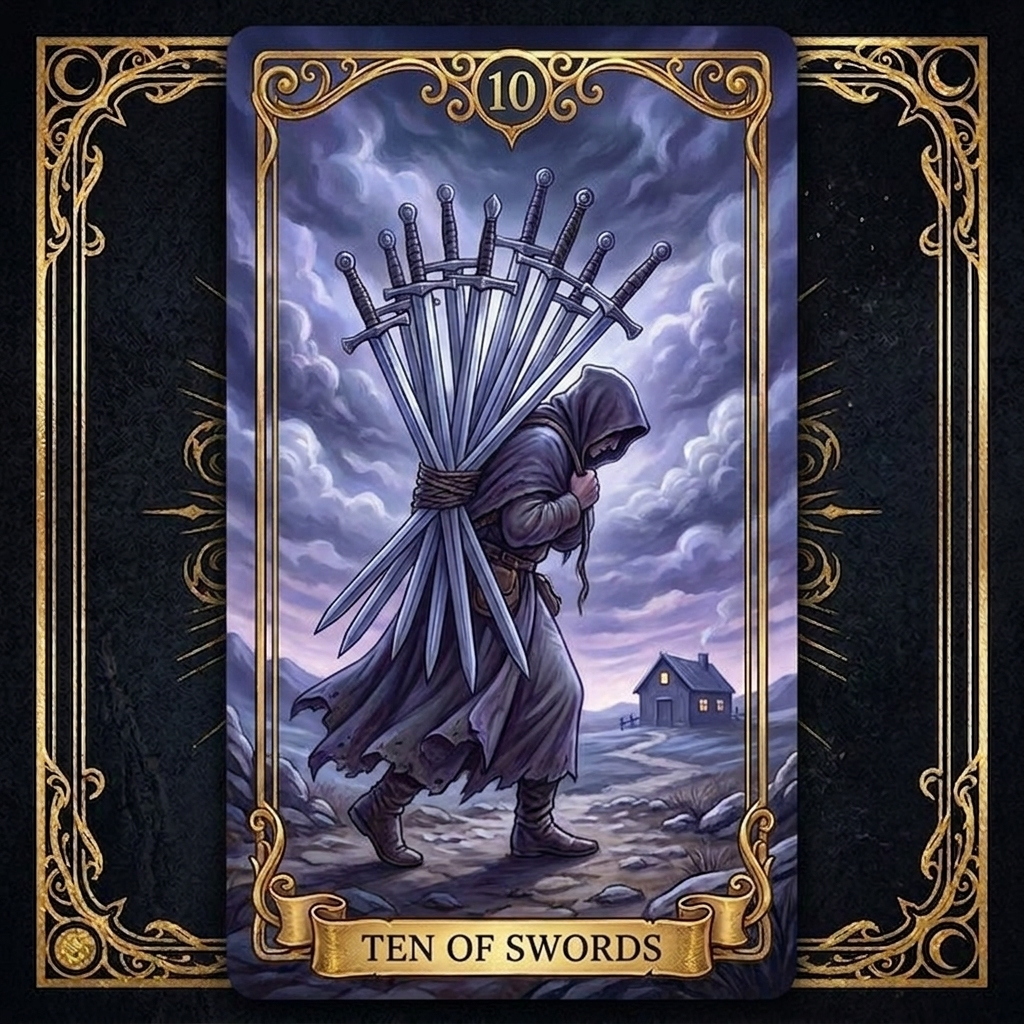
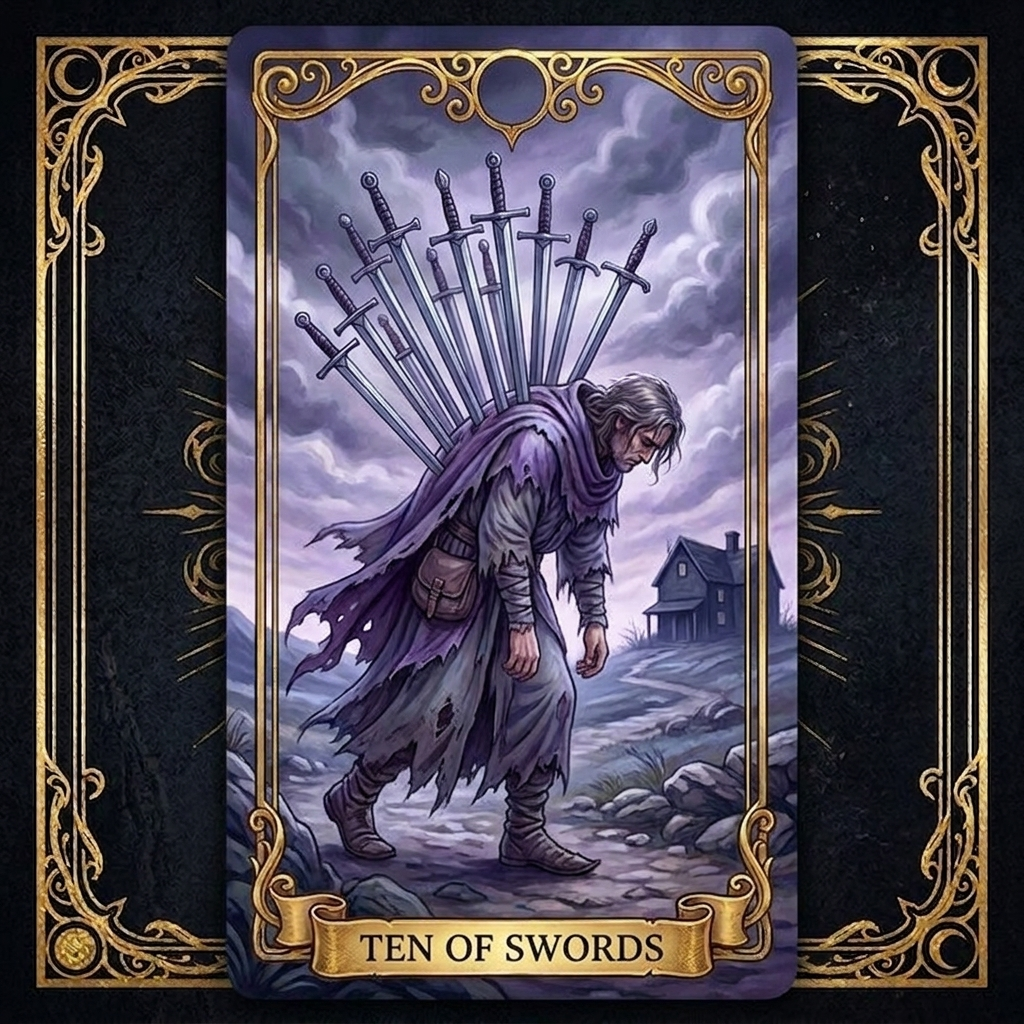
fix(tarot): 생성한 이미지의 크기를 검증하고 어긋나면 다시 뽑는다
`gemini-3-pro-image` 는 정사각형을 요구해도 **가끔 세로(848x1264)를 돌려줍니다.**
프롬프트에 비율을 적어도 그렇습니다.

실제로 78장 중 3장(PE07-7, SW10-10, WA12-N)이 그 상태로 들어와 있었습니다.
갤러리에서 카드 하나만 눌려 보이는데, 파일은 멀쩡한 JPEG 라 아무 경고도
나지 않습니다. 화면을 한 장 한 장 뜯어보지 않으면 모릅니다.

받은 바이트에서 JPEG SOF 마커를 읽어 크기를 재고, `1024x1024` 가 아니면
그 시도를 실패로 처리합니다. 기존 재시도 경로(3회, 점증 대기)를 그대로 타므로
자동으로 다시 뽑힙니다. JPEG 매직바이트도 함께 확인합니다.

프롬프트에도 `Square 1:1 image, 1024x1024.` 를 덧붙였습니다. 그것만으로는
막지 못한다는 걸 확인했기 때문에 검증을 함께 둡니다.

확인: SW10-10 을 다시 뽑아 1024x1024 로 들어오는 것까지 봤습니다.
현재 78장 전부 1024x1024.

Claude-Session: https://claude.ai/code/session_01KKq455fG5EhybQVdLvc313

diff --git a/src/app/billing/page.tsx b/src/app/billing/page.tsx
@@ -10,7 +10,10 @@ export default function BillingPage() {
           <span className="text-sm font-bold">뒤로</span>
         </Link>
 
-        <div className="bg-surface border border-border-color rounded-5xl p-4 sm:p-8 sm:p-16 shadow-2xl">
+        {/* 모바일에서는 카드 여백을 줄이고, 카드 안의 카드는 더 줄인다(p-3 / p-2.5).
+            레이아웃 8px + 카드 16px + 안쪽 카드 12px + 테두리 2px = 한 면 38px 라
+            본문이 314/390(0.81)까지 좁아졌었다. sm: 이상 값은 그대로 둔다. */}
+        <div className="bg-surface border border-border-color rounded-5xl p-3 sm:p-8 sm:p-16 shadow-2xl">
           <div className="flex items-center gap-6 mb-8 pb-12 border-b border-border-color">
             <div className="w-20 h-20 rounded-3xl bg-primary/10 border border-primary/20 flex items-center justify-center">
               <CreditCard className="w-10 h-10 text-primary" />
@@ -22,24 +25,24 @@ export default function BillingPage() {
           </div>
 
           <div className="grid gap-5 md:grid-cols-3">
-            <Link href="/shop" className="rounded-3xl border border-border-color bg-background p-3 sm:p-6 hover:border-primary/40 transition-colors">
+            <Link href="/shop" className="rounded-3xl border border-border-color bg-background p-2.5 sm:p-6 hover:border-primary/40 transition-colors">
               <CreditCard className="w-6 h-6 text-primary" />
               <h2 className="mt-4 text-lg font-black text-foreground">상품 보기</h2>
               <p className="mt-2 text-sm text-muted">젤리 충전, 프리미엄, 멤버십 상품을 실제 결제 경로에서 확인합니다.</p>
             </Link>
-            <Link href="/refund" className="rounded-3xl border border-border-color bg-background p-3 sm:p-6 hover:border-primary/40 transition-colors">
+            <Link href="/refund" className="rounded-3xl border border-border-color bg-background p-2.5 sm:p-6 hover:border-primary/40 transition-colors">
               <RefreshCw className="w-6 h-6 text-primary" />
               <h2 className="mt-4 text-lg font-black text-foreground">환불 정책</h2>
               <p className="mt-2 text-sm text-muted">환불 가능 기준, 처리 절차, 검토 범위를 확인합니다.</p>
             </Link>
-            <Link href="/inquiry" className="rounded-3xl border border-border-color bg-background p-3 sm:p-6 hover:border-primary/40 transition-colors">
+            <Link href="/inquiry" className="rounded-3xl border border-border-color bg-background p-2.5 sm:p-6 hover:border-primary/40 transition-colors">
               <Receipt className="w-6 h-6 text-primary" />
               <h2 className="mt-4 text-lg font-black text-foreground">결제 문의</h2>
               <p className="mt-2 text-sm text-muted">영수증, 결제 확인, 구독 문의는 고객지원으로 접수합니다.</p>
             </Link>
           </div>
 
-          <div className="mt-8 rounded-3xl border border-secondary/20 bg-secondary/5 p-3 sm:p-6">
+          <div className="mt-8 rounded-3xl border border-secondary/20 bg-secondary/5 p-2.5 sm:p-6">
             <div className="flex items-center gap-3 text-muted font-black">
               <ShieldCheck className="w-5 h-5" /> 현재 운영 기준
             </div>

diff --git a/src/app/account/delete/page.tsx b/src/app/account/delete/page.tsx
@@ -10,7 +10,10 @@ export default function AccountDeletePage() {
           <span className="text-sm font-bold">뒤로</span>
         </Link>
 
-        <div className="bg-surface border border-border-color rounded-5xl p-4 sm:p-8 sm:p-16 shadow-2xl">
+        {/* 모바일에서는 카드 여백을 줄이고, 카드 안의 카드는 더 줄인다(p-3 / p-2.5).
+            레이아웃 8px + 카드 16px + 안쪽 카드 12px + 테두리 2px = 한 면 38px 라
+            본문이 314/390(0.81)까지 좁아졌었다. sm: 이상 값은 그대로 둔다. */}
+        <div className="bg-surface border border-border-color rounded-5xl p-3 sm:p-8 sm:p-16 shadow-2xl">
           <div className="flex items-center gap-6 mb-8 pb-12 border-b border-border-color">
             <div className="w-20 h-20 rounded-3xl bg-rose-500/10 border border-rose-500/20 flex items-center justify-center">
               <AlertTriangle className="w-10 h-10 text-rose-400" />
@@ -22,7 +25,7 @@ export default function AccountDeletePage() {
           </div>
 
           <div className="space-y-6 text-muted leading-8">
-            <div className="rounded-3xl border border-border-color bg-background p-3 sm:p-6">
+            <div className="rounded-3xl border border-border-color bg-background p-2.5 sm:p-6">
               <h2 className="text-xl font-black text-foreground">탈퇴 전에 확인할 내용</h2>
               <ul className="mt-3 list-disc pl-6 space-y-2 text-sm">
                 <li>구매한 젤리, 프리미엄 해설, 멤버십 상태는 복구되지 않을 수 있습니다.</li>
@@ -31,7 +34,7 @@ export default function AccountDeletePage() {
               </ul>
             </div>
 
-            <div className="rounded-3xl border border-rose-500/20 bg-rose-500/5 p-3 sm:p-6">
+            <div className="rounded-3xl border border-rose-500/20 bg-rose-500/5 p-2.5 sm:p-6">
               <div className="flex items-center gap-2 text-rose-300 font-black">
                 <ShieldAlert className="w-5 h-5" /> 현재 처리 방식
               </div>

diff --git a/src/app/payment/fail/page.tsx b/src/app/payment/fail/page.tsx
@@ -44,18 +44,22 @@ function FailContent() {
     return '/shop';
   };
 
+  // 모바일 여백은 레이아웃(src/app/layout.tsx)이 주는 좌우 8px 로 끝낸다. 여기서 p-2 를
+  // 또 주고 카드 p-4 안에 실패 안내 상자를 한 겹 더 두면 상자가 3겹이 되어 본문이
+  // 262/390(0.67)까지 좁아졌다. sm: 이상(데스크톱) 값은 그대로 둔다.
   return (
-    <div className="min-h-screen flex items-center justify-center p-2 sm:p-4 bg-background">
+    <div className="min-h-screen flex items-center justify-center p-0 sm:p-4 bg-background">
       <motion.div
         initial={{ opacity: 0, y: 20 }}
         animate={{ opacity: 1, y: 0 }}
-        className="bg-surface p-4 sm:p-8 md:p-6 sm:p-9 rounded-4xl shadow-2xl max-w-md w-full text-center border border-border-color"
+        className="bg-surface p-3 sm:p-8 md:p-6 sm:p-9 rounded-4xl shadow-2xl max-w-md w-full text-center border border-border-color"
       >
         <div className="flex flex-col items-center">
           <XCircle className="w-16 h-16 sm:w-20 sm:h-20 text-rose-500 mb-6" />
           <h2 className="text-2xl sm:text-3xl font-black text-foreground uppercase tracking-tight mb-2">결제 실패</h2>
 
-          <div className="bg-rose-500/10 border border-rose-500/20 p-3 sm:p-6 rounded-2xl mt-6 w-full">
+          {/* 카드 안의 카드라 모바일 여백을 바깥(p-3)보다 더 줄인다. */}
+          <div className="bg-rose-500/10 border border-rose-500/20 p-2.5 sm:p-6 rounded-2xl mt-6 w-full">
             <div className="flex items-start gap-3 text-left">
               <AlertCircle className="w-6 h-6 text-rose-400 shrink-0 mt-0.5" />
               <div>

diff --git a/src/app/payment/success/page.tsx b/src/app/payment/success/page.tsx
@@ -89,8 +89,10 @@ function SuccessContent() {
     void verifyPayment();
   }, [router, searchParams]);
 
+  // 모바일은 레이아웃(src/app/layout.tsx)이 이미 좌우 8px 를 준다. 여기서 또 p-2 를
+  // 주면 카드 p-5(20px)와 합쳐 한 면 37px 가 사라져 본문이 316/390(0.81)까지 좁아졌다.
   return (
-    <div className="min-h-screen flex items-center justify-center p-2 sm:p-4 bg-background">
+    <div className="min-h-screen flex items-center justify-center p-0 sm:p-4 bg-background">
       <motion.div
         initial={{ opacity: 0, y: 20 }}
         animate={{ opacity: 1, y: 0 }}
